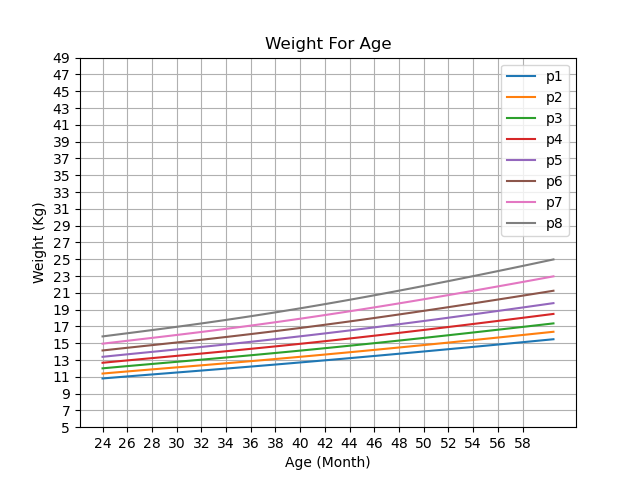
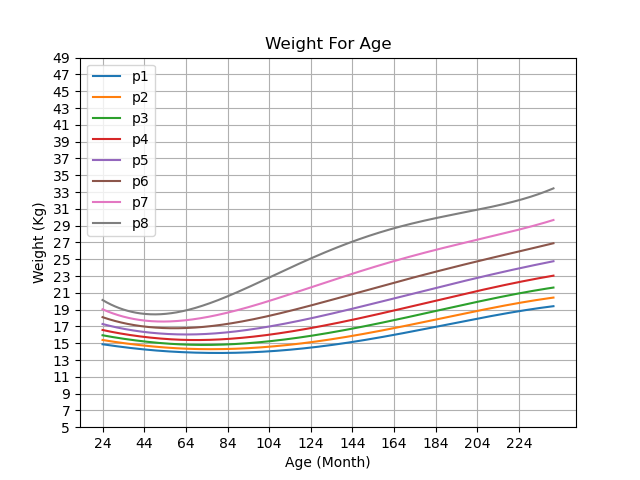
Added home page

Changed region(s): [[0.1562, 0.125, 0.9062, 0.8125], [0.125, 0.125, 0.25, 0.5], [0.1875, 0.9062, 0.8438, 0.9375]]

diff --git a/cactusApp/templates/cactusApp/index.html b/cactusApp/templates/cactusApp/index.html
@@ -1,85 +1,56 @@
-<!doctype html>
-<html lang="en">
-  <head>
-    <!-- Required meta tags -->
-    <meta charset="utf-8">
-    <meta name="viewport" content="width=device-width, initial-scale=1, shrink-to-fit=no">
-    <!-- semantic UI -->
-    <link rel="stylesheet" type='text/css' href="https://cdnjs.cloudflare.com/ajax/libs/semantic-ui/2.2.14/semantic.min.css">
-    <!--Chart js-->
-    <script src="https://cdnjs.cloudflare.com/ajax/libs/Chart.js/2.8.0/Chart.min.js" integrity="sha256-Uv9BNBucvCPipKQ2NS9wYpJmi8DTOEfTA/nH2aoJALw=" crossorigin="anonymous"></script>
-    <link rel="stylesheet" href="https://cdnjs.cloudflare.com/ajax/libs/Chart.js/2.8.0/Chart.min.css" integrity="sha256-aa0xaJgmK/X74WM224KMQeNQC2xYKwlAt08oZqjeF0E=" crossorigin="anonymous" />
-    <!-- jQuery -->
-    <script src="https://code.jquery.com/jquery-3.3.1.min.js"></script>
+{% extends "cactusApp/base.html" %}
+{% load static %}
 
-    <title></title>
-  </head>
-  <body>
-      <form class="" action="{% url 'index' %} " method="post">
-          {% csrf_token %}
-          <label for="weight">Weight: </label>
-          <input type="number" step="0.01" id='weight' name="weight">
+{% block title %}Home{% endblock %}
 
-          <label for="height">Height: </label>
-          <input type="number" step="0.01" id='height' name="height">
+{% block body %}
+<div class="row mt-2">
+    <div class="col">
+      <img class="center" src="{% static 'img/Logo.png' %}" alt="">
+      <p>Seeing a child grow up to be a healthy person is a number one priority for young parents, yet help is limited and knowledge resources are vast and complicated. This is especially crucial in the infant to toddler stages of the development.</p>
+      <br>
+      <p>cactus. has the purpose of helping young parents measure their child’s growth, gain understanding into risk factors and give recommendations on how to avoid these risks. Through a smart algorithm and continuous improvements based on research in cooperation with Barnklinik Halmstad, we hope to give parents a piece of helpful tools to nurture a healthy growth.</p>
+    </div>
+    <div class="col wrapper">
+        <div class="card card-center">
+          <div class="card-container">
+              <form action="#" method="post" class="form-group">
+                  {% csrf_token %}
+                  <input class="form-control my-2" name="username" type="text" placeholder="username"/>
+                  <input class="form-control my-2" name="password" type="password" placeholder="password"/>
+                  <input class="btn btn-success mt-2 login-btn" type="submit" value="Login"/>
+              </form>
+              <hr>
+              <!-- Button trigger modal -->
+              <button type="button" class="btn btn-primary mb-2 login-btn" data-toggle="modal" data-target="#registerModal">
+                Register here
+                </button>
+          </div>
+        </div>
+ </div>
 
-          <label for="HeadCircumference">Head Circumference: </label>
-          <input type="number" step="0.01" id='HeadCircumference' name="HeadCircumference">
 
-          <input type="submit" value="OK">
+ <!-- Modal -->
+ <div class="modal fade" id="registerModal" tabindex="-1" role="dialog" aria-labelledby="exampleModalLabel" aria-hidden="true">
+   <div class="modal-dialog" role="document">
+     <div class="modal-content">
+       <div class="modal-header">
+         <h5 class="modal-title" id="exampleModalLabel">Sign Up</h5>
+       </div>
+       <form class="form-group" action="#" method="post">
+           <div class="modal-body">
+                {% csrf_token %}
+                <input class="form-control my-2" name="username" type="text" placeholder="username"/>
+                <input class="form-control my-2" name="password" type="password" placeholder="password"/>
+                <input class="form-control my-2" name="password2" type="password" placeholder="confirm password"/>
+           </div>
+           <div class="modal-footer">
+             <button type="button" class="btn btn-secondary" data-dismiss="modal">Close</button>
+             <button type="submit" class="btn btn-primary">Create Account</button>
+           </div>
+       </form>
+     </div>
+   </div>
+ </div>
 
-      </form>
-        <canvas id="myChart" width="400" height="150"></canvas>
-      <script type="text/javascript">
-        $(document).ready(function() {
-            var ctx = document.getElementById('myChart').getContext('2d');
-            var myChart = new Chart(ctx, {
-                type: 'line',
-                data: {
-                    labels: [2, 2.5, 3, 3.5, 4, 4.5, 5, 5.5],
-                    datasets: [{
-                        label: '# of Votes',
-                        data: [7, 8, 9, 10, 11, 12, 13, 14],
-                    },
-                    {
-                        label: '# of Votes',
-                        data: [10.38209025, 10.4414422, 10.55847309, 10.67380261, 10.78798157, 10.90147346, 10.999],
-                        borderColor: [
-                            'rgba(255, 99, 132, 1)',
-                            'rgba(54, 162, 235, 1)',
-                            'rgba(255, 206, 86, 1)',
-                            'rgba(75, 192, 192, 1)',
-                            'rgba(153, 102, 255, 1)',
-                            'rgba(255, 159, 64, 1)'
-                        ],
-                        borderWidth: 1
-                    },
-
-                    {
-                        label: '# of Votes',
-                        data: [10.64009004, 10.70051298, 10.81957536, 10.93681171, 11.05280067, 11.28292555, 11.3978197],
-                        borderColor: [
-                            'rgba(255, 99, 132, 1)',
-                            'rgba(54, 162, 235, 1)',
-                            'rgba(255, 206, 86, 1)',
-                            'rgba(75, 192, 192, 1)',
-                            'rgba(153, 102, 255, 1)',
-                            'rgba(255, 159, 64, 1)'
-                        ],
-                        borderWidth: 1
-                    },
-
-                ]
-                },
-                options: {
-                    scales: {
-                        yAxes: {
-                            stacked: true
-                        }
-                    }
-                }
-            });
-        });
-      </script>
-  </body>
-</html>
+{% endblock %}

diff --git a/cactusApp/templates/cactusApp/base.html b/cactusApp/templates/cactusApp/base.html
@@ -1,0 +1,35 @@
+{% load static %}
+<!doctype html>
+<html lang="en">
+  <head>
+
+    <!-- Required meta tags -->
+    <meta charset="utf-8">
+    <meta name="viewport" content="width=device-width, initial-scale=1">
+
+    <!-- Bootstrap CSS -->
+    <link href="https://cdn.jsdelivr.net/npm/bootstrap@5.0.0-beta3/dist/css/bootstrap.min.css" rel="stylesheet" integrity="sha384-eOJMYsd53ii+scO/bJGFsiCZc+5NDVN2yr8+0RDqr0Ql0h+rP48ckxlpbzKgwra6" crossorigin="anonymous">
+    <link href="{% static 'style/main.css' %}" rel="stylesheet">
+    <title>{% block title %}{% endblock %}</title>
+
+  </head>
+  <body>
+      <div class="container">
+            {% block body %}{% endblock %}
+       </div>
+
+
+    <!-- Optional JavaScript; choose one of the two! -->
+
+    <!-- Option 1: Bootstrap Bundle with Popper -->
+    <script src="https://cdn.jsdelivr.net/npm/bootstrap@5.0.0-beta3/dist/js/bootstrap.bundle.min.js" integrity="sha384-JEW9xMcG8R+pH31jmWH6WWP0WintQrMb4s7ZOdauHnUtxwoG2vI5DkLtS3qm9Ekf" crossorigin="anonymous"></script>
+    <script src="https://code.jquery.com/jquery-3.2.1.slim.min.js" integrity="sha384-KJ3o2DKtIkvYIK3UENzmM7KCkRr/rE9/Qpg6aAZGJwFDMVNA/GpGFF93hXpG5KkN" crossorigin="anonymous"></script>
+    <script src="https://cdnjs.cloudflare.com/ajax/libs/popper.js/1.12.3/umd/popper.min.js" integrity="sha384-vFJXuSJphROIrBnz7yo7oB41mKfc8JzQZiCq4NCceLEaO4IHwicKwpJf9c9IpFgh" crossorigin="anonymous"></script>
+    <script src="https://maxcdn.bootstrapcdn.com/bootstrap/4.0.0-beta.2/js/bootstrap.min.js" integrity="sha384-alpBpkh1PFOepccYVYDB4do5UnbKysX5WZXm3XxPqe5iKTfUKjNkCk9SaVuEZflJ" crossorigin="anonymous"></script>
+    <!-- Option 2: Separate Popper and Bootstrap JS -->
+    <!--
+    <script src="https://cdn.jsdelivr.net/npm/@popperjs/core@2.9.1/dist/umd/popper.min.js" integrity="sha384-SR1sx49pcuLnqZUnnPwx6FCym0wLsk5JZuNx2bPPENzswTNFaQU1RDvt3wT4gWFG" crossorigin="anonymous"></script>
+    <script src="https://cdn.jsdelivr.net/npm/bootstrap@5.0.0-beta3/dist/js/bootstrap.min.js" integrity="sha384-j0CNLUeiqtyaRmlzUHCPZ+Gy5fQu0dQ6eZ/xAww941Ai1SxSY+0EQqNXNE6DZiVc" crossorigin="anonymous"></script>
+    -->
+  </body>
+</html>

diff --git a/cactusApp/static/style/main.css b/cactusApp/static/style/main.css
@@ -1,0 +1,45 @@
+img{
+    width: 320px;
+    height: 150px;
+}
+
+.center {
+  display: block;
+  margin-left: auto;
+  margin-right: auto;
+}
+
+.card {
+  /* Add shadows to create the "card" effect */
+  box-shadow: 0 4px 8px 0 rgba(0,0,0,0.2);
+  transition: 0.3s;
+  width: 80%;
+  margin: 0 auto;
+}
+
+/* On mouse-over, add a deeper shadow */
+.card:hover {
+  box-shadow: 0 8px 16px 0 rgba(0,0,0,0.2);
+}
+
+/* Add some padding inside the card container */
+.card-container {
+  padding: 2px 16px;
+}
+
+.login-btn {
+    width: 100%;
+}
+
+.wrapper {
+  position: relative;
+}
+
+.card-center {
+  margin: 0;
+  position: absolute;
+  top: 50%;
+  left: 50%;
+  -ms-transform: translate(-50%, -50%);
+  transform: translate(-50%, -50%);
+}

diff --git a/cactusApp/views.py b/cactusApp/views.py
@@ -4,8 +4,10 @@ from pygrowup import Calculator
 from pygrowup import helpers
 import datetime
 
-# [10.38209025, 10.4414422, 10.55847309, 10.67380261, 10.78798157, 10.90147346, 10.999]
 def index(request):
+    return render(request, 'cactusApp/index.html')
+
+def calculate_score(request):
     '''Index view, render the home page'''
     if request.method == "POST":
         weight = request.POST['weight']
@@ -21,7 +23,7 @@ def index(request):
                        log_level='INFO')
 
         great_day = datetime.datetime.utcnow().date()
-        nine_months_ago = great_day - datetime.timedelta(days=(9 * 30.4374))
+        nine_months_ago = great_day - datetime.timedelta(days=(24 * 30.4374))
         dob = nine_months_ago.strftime("%d%m%y")
 
         my_child = {'date_of_birth' : dob, 'sex' : 'male', 'weight' : '8.0', 'height' : '69.5'}
@@ -38,11 +40,11 @@ def index(request):
         # calculate weight-for-age zscore
         wfa_zscore_for_my_child = calculator.wfa(my_child['weight'], valid_age, valid_gender)
 
-        # calculate weight-for-length zscore
-        # optional height parameter is only necessary for weight-for-height
-        # and weight-for-length
-        wfl_zscore_for_my_child = calculator.wfl(my_child['weight'], valid_age, valid_gender, my_child['height'])
+        # calculate weight-for-age zscore
+        bmi = calculator.bmifa(my_child['weight'], valid_age, valid_gender)
+        # print(calculator.bmifa.__defaults__)
 
-        print(wfa_zscore_for_my_child, wfl_zscore_for_my_child)
+
+        print(wfa_zscore_for_my_child, bmi)
 
     return render(request, 'cactusApp/index.html')

diff --git a/cactusApp/getData.py b/cactusApp/getData.py
@@ -53,6 +53,7 @@ def draw(data, title, y_lable, x_lable):
     plt.legend()
 
     x_ticks = np.arange(24, 60, 2)
+    # x_ticks = np.arange(24, 240, 20)
     plt.xticks(x_ticks)
 
     y_ticks = np.arange(5, 50, 2)
